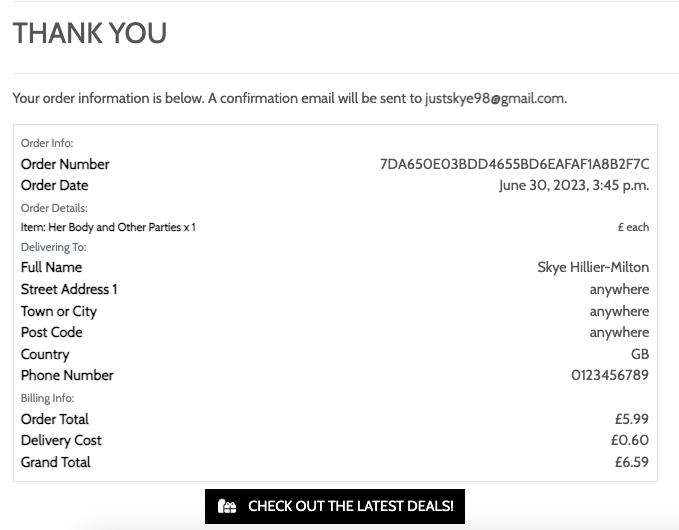
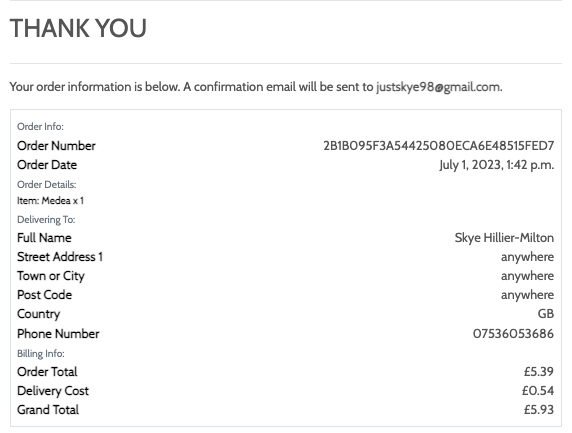
Continuing manual testing for readme

diff --git a/products/templates/products/book-detail.html b/products/templates/products/book-detail.html
@@ -63,8 +63,8 @@
                     <p class="mb-0"><small class=text-muted>Year of release: {{ product.release_year }}</small></p>
                     <p id="product-price" data-price="{{ product.price }}"></p>
                     <!-- <input type="hidden" id="hidden-price" value="{{ product.price }}"> -->
-                    <p class="mb-0" id="calculated-price"></p>
-                    <!-- <p class="lead mb-0 text-left font-weight-bold">£{{ product.price }}</p> -->
+                    <!-- <p class="mb-0" id="calculated-price"></p> -->
+                    <p class="lead mb-0 text-left font-weight-bold">£{{ product.price }}</p>
                     {% if product.category %}
                         <p class="small mt-1 mb-0">
                             <a class="text-muted" href="{% url 'books' %}?category={{ product.category.name }}">
@@ -88,9 +88,8 @@
                                     <p><strong>Choose your book quality:</strong></p>
                                     <select class="form-control rounded-0 w-50" name="book_quality" id="quality-selector">
                                         {% for quality in product.quality_set.all %}
-                                            {% if quality.name == 'great' %}
+                                            {% if quality.name == 'Great' %}
                                                 <option value="{{ quality.price_factor}}" selected>{{ quality.name }}</option>
-                                                
                                             {% else %}
                                                 <option value="{{ quality.price_factor }}">{{ quality.name }}</option>
                                             {% endif %}

diff --git a/checkout/templates/checkout/checkout_success.html b/checkout/templates/checkout/checkout_success.html
@@ -69,7 +69,7 @@
                     <!-- Below I can't get the previous value of price because once checkout is completed, item_price = 0 -->
                     <div class="col-12 col-md-8 text-md-right">
                         <p class="small mb-0">
-                            £{{ order.item_price|floatformat:2 }} each
+                            <!-- £{{ order.item_price|floatformat:2 }} each -->
                         </p> 
                     </div>
                     {% endfor %}

diff --git a/products/migrations/0002_auto_20230701_1353.py b/products/migrations/0002_auto_20230701_1353.py
@@ -1,0 +1,25 @@
+# Generated by Django 3.2.19 on 2023-07-01 13:53
+
+from django.conf import settings
+from django.db import migrations, models
+
+
+class Migration(migrations.Migration):
+
+    dependencies = [
+        migrations.swappable_dependency(settings.AUTH_USER_MODEL),
+        ('products', '0001_initial'),
+    ]
+
+    operations = [
+        migrations.AlterField(
+            model_name='product',
+            name='averagerating',
+            field=models.DecimalField(blank=True, decimal_places=2, editable=False, max_digits=4, null=True),
+        ),
+        migrations.AlterField(
+            model_name='product',
+            name='users_wishlist',
+            field=models.ManyToManyField(blank=True, editable=False, related_name='user_wishlist', to=settings.AUTH_USER_MODEL),
+        ),
+    ]

diff --git a/products/models.py b/products/models.py
@@ -30,10 +30,10 @@ class Product(models.Model):
     blurb = models.TextField()
     has_quality = models.BooleanField(default=True, null=True, blank=True)
     price = models.DecimalField(max_digits=6, decimal_places=2)
-    averagerating = models.DecimalField(max_digits=4, decimal_places=2, null=True, blank=True)
+    averagerating = models.DecimalField(max_digits=4, decimal_places=2, null=True, blank=True, editable=False)
     image_link = models.ImageField(null=True, blank=True)
     # Very Academy
-    users_wishlist = models.ManyToManyField(User, related_name="user_wishlist", blank=True)
+    users_wishlist = models.ManyToManyField(User, related_name="user_wishlist", blank=True, editable=False)
 
     def get_rating(self):
         """ Find average book rating """

diff --git a/README.md b/README.md
@@ -305,5 +305,32 @@ How to Clone
 | 4. Easily see what I've searched for and the number of results | Yes, the search query is quoted back to the user above the results and this message shows how many products matched that specific criteria | ![Products found](/docs/images/products-found.png) |
 | 5. Be shown on the book details page whether a particular book is in my wishlist | Yes, the 'add to wishlist' button changes to a 'remove from wishlist' button when clicked the signify that it's been added/already in the user's wishlist | ![Wishlist on details page](/docs/images/remove-from-wishlist.png) |
 | Purchasing and Checkout | | |
-| 1. 
+| 1. Easily select the quantity of a book when purchasing it | Yes, there is a quantity selector box on the book details page that can be used to adjust the quantity of a book added to the bag.  | ![Quantity selector](/docs/images/quantity-selector.png) |
+| 2. Easily select the quality of a book when purchasing it | Yes, users can select the quality of book they wish to purchase on the book details page, the quality selected determines the price of the item. The quality they have chosen is reiterated to them in messages and on the order summary encase they want to change their mind | ![Quality selector](/docs/images/quality-selector.png) |
+| 3. View items in my bag to be purchased | Yes, users can click the bag icon in the navbar to be taken to their shopping bag where a summary of their order is displayed. When an item is added to the bag a success message is shown to confirm this action and give an updated bag summary| ![Bag summary](/docs/images/shopping-bag.png) |
+| 4. Adjust the quantity of individual items in my bag | Yes, on the 'Shopping Bag' page there is a quantity selector to allow users to change and update the quantities of individual books in their order | ![Bag quantity selector](/docs/images/bag-quantity-selector.png) |
+| 5. Easily enter my payment information | Yes, users can simply enter their delivery information which when logged in can be saved and autofilled to expedite the process, then must enter their card number, expiry date, and CVC | ![Payment details](/docs/images/payment.png) |
+| 6. Feel my personal and payment information is safe and secure | Yes, payment information is handled by Stripe with none of this information being stored in the site database. Stripe is a certified PCI (Payment Card Industry) Service Provider which shows users that their information is safe. Personal information stored by the site would not be sold or reused for any purpose beyond allowing the registration of users, and the completion of orders | |
+| 7. View an order confirmation about checkout | Yes, upon the completion of the checkout users are redirected to a page that details their order confirmation and summary. This document is also available through the users Profile (if logged in) in their order history section | ![Order confirmation](/docs/images/order-confirmation.png) |
+| 8. Receive an email confirmation after checking out | Yes, users receive an email confirmation as soon as checkout has been completed, this message includes basic information about the order | ![Order confirmation email](/docs/images/order-confirmation-email.png) |
+| Admin and Store Management | | |
+| 1. Be able to add books | Yes, if you are logged in as the superuser you can access the product management section which brings you to a form to add new books, if an image isn't provided for this new book a default will be uploaded | ![Add a book](/docs/images/add-a-book.png) |
+| 2. Be able to edit/update a book | Yes, underneath each book in the all books and book detail pages there is an 'edit' button that when clicked brings the superuser to a pre-populated form whereby they can change any book information, including editing the price if there was a sale on | ![Edit/update a book](/docs/images/edit-a-book.png) |
+| 3. Be able to delete a book | Yes, a superuser can delete a book by clicking the 'delete' button underneath books in the all books and book detail pages and after doing so they will see a confirmation message | ![Delete a book](/docs/images/delete-a-book.gif) |
+
+### Full Testing
+
+The Second Hand Shelf site has been continually tested throughout development, including both manual and automated testing as shown above in this document
+
+* General:
+  * All navbar links direct the user to the correct page when clicked and items like Product Management do not appear unless the superuser is logged in
+  * All links throughout the site were tested and all bring users to the correct page or initiate the expected action
+  * All social media links in the footer direct the user to a new page when clicked 
+* Home page:
+  * The navbar hamburger icon drops down the navbar menu when clicked on mobile/smaller screens and each dropdown within the navbar displays correctly with links bringing users to the correct pages
+* Login page:
+  * Users must enter the correct username and password in order to login or they're met with an error message stating that this is not correct
+  * The 'forgot password' link brings users to the correct page and they are sent an email with a link to reset their password
+  * The 'remember me' radio button when clicked means that users log in information is saved for the next time they try to access their account
+* Sign up page:
 
